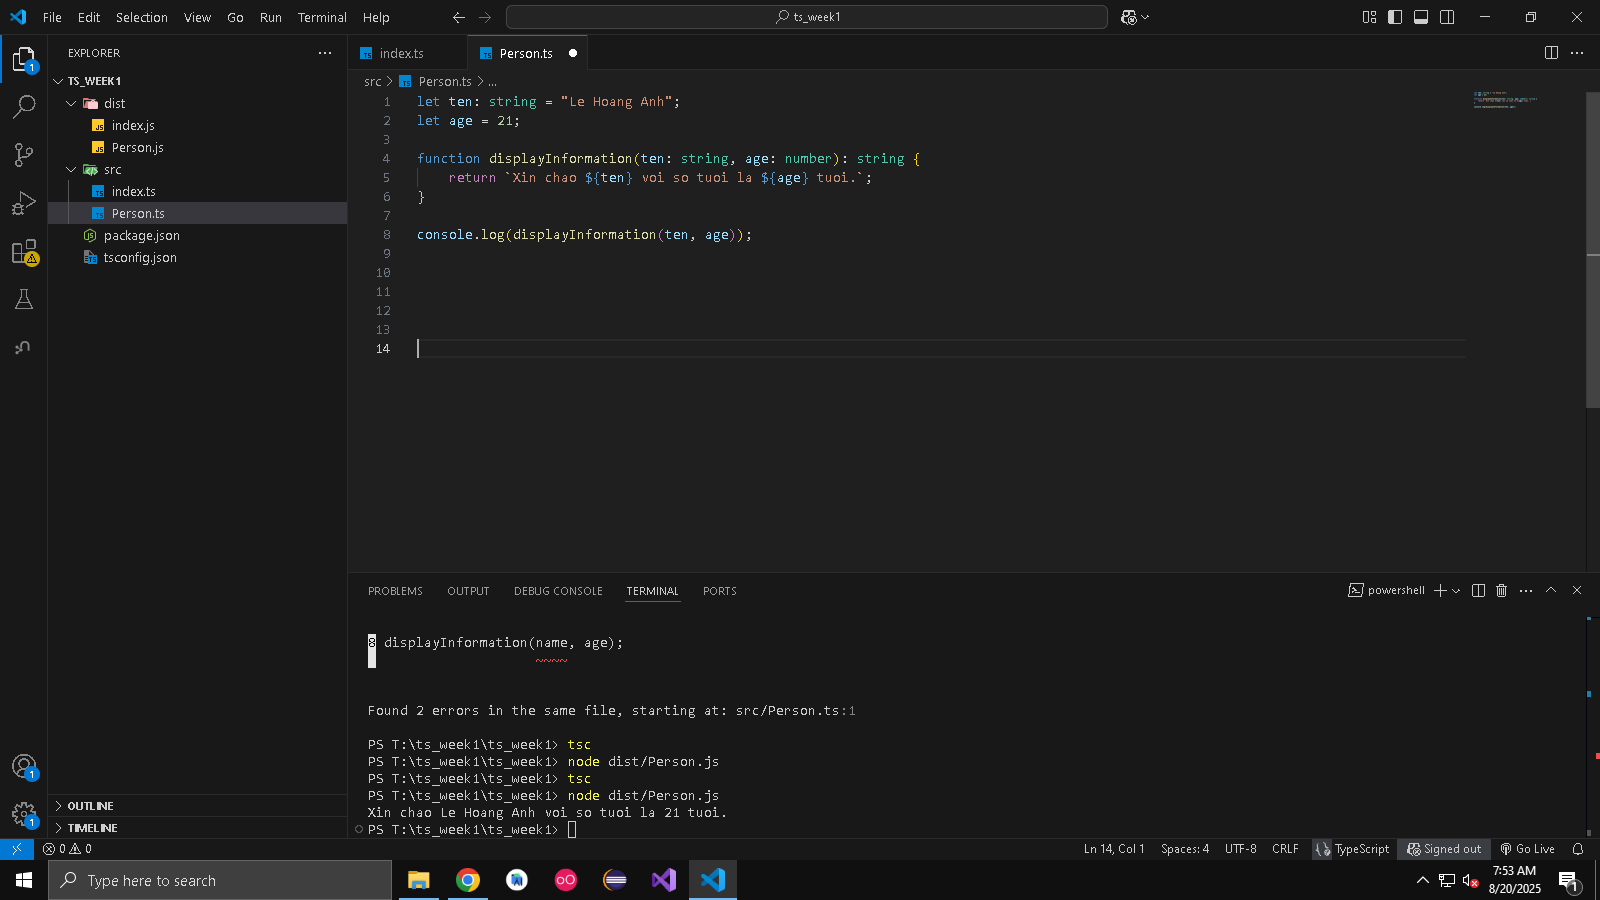
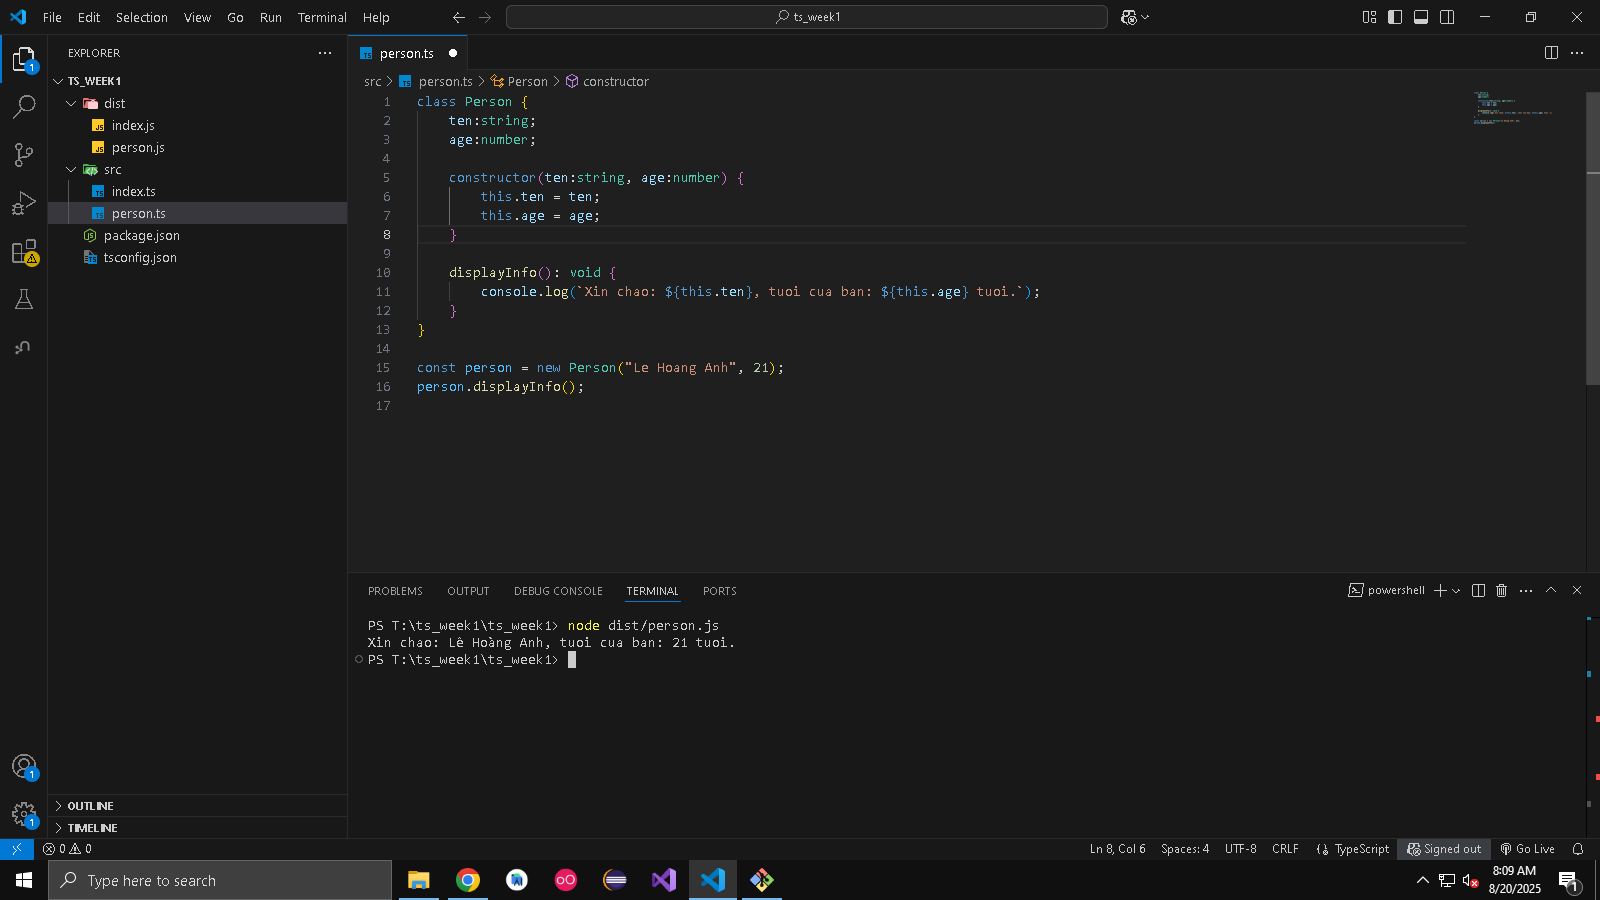
1. Update finish lab1

diff --git a/ts_week1/src/Person.ts b/ts_week1/src/Person.ts
@@ -1,12 +1,16 @@
-let ten: string = "Le Hoang Anh";
-let age = 21;
+class Person {
+    ten:string;
+    age:number;
 
-function displayInformation(ten: string, age: number): string {
-    return `Xin chao ${ten} voi so tuoi la ${age} tuoi.`;
+    constructor(ten:string, age:number) {
+        this.ten = ten;
+        this.age = age;
+    }
+
+    displayInfo(): void {
+        console.log(`Xin chao: ${this.ten}, tuoi cua ban: ${this.age} tuoi.`);
+    }
 }
 
-console.log(displayInformation(ten, age));
-
-
-
-
+const person = new Person("Le Hoang Anh", 21);
+person.displayInfo();

diff --git a/ts_week1/dist/Person.js b/ts_week1/dist/Person.js
@@ -1,7 +1,12 @@
 "use strict";
-let ten = "Le Hoang Anh";
-let age = 21;
-function displayInformation(ten, age) {
-    return `Xin chao ${ten} voi so tuoi la ${age} tuoi.`;
+class Person {
+    constructor(ten, age) {
+        this.ten = ten;
+        this.age = age;
+    }
+    displayInfo() {
+        console.log(`Xin chao: ${this.ten}, tuoi cua ban: ${this.age} tuoi.`);
+    }
 }
-console.log(displayInformation(ten, age));
+const person = new Person("Lê Hoàng Anh", 21);
+person.displayInfo();
